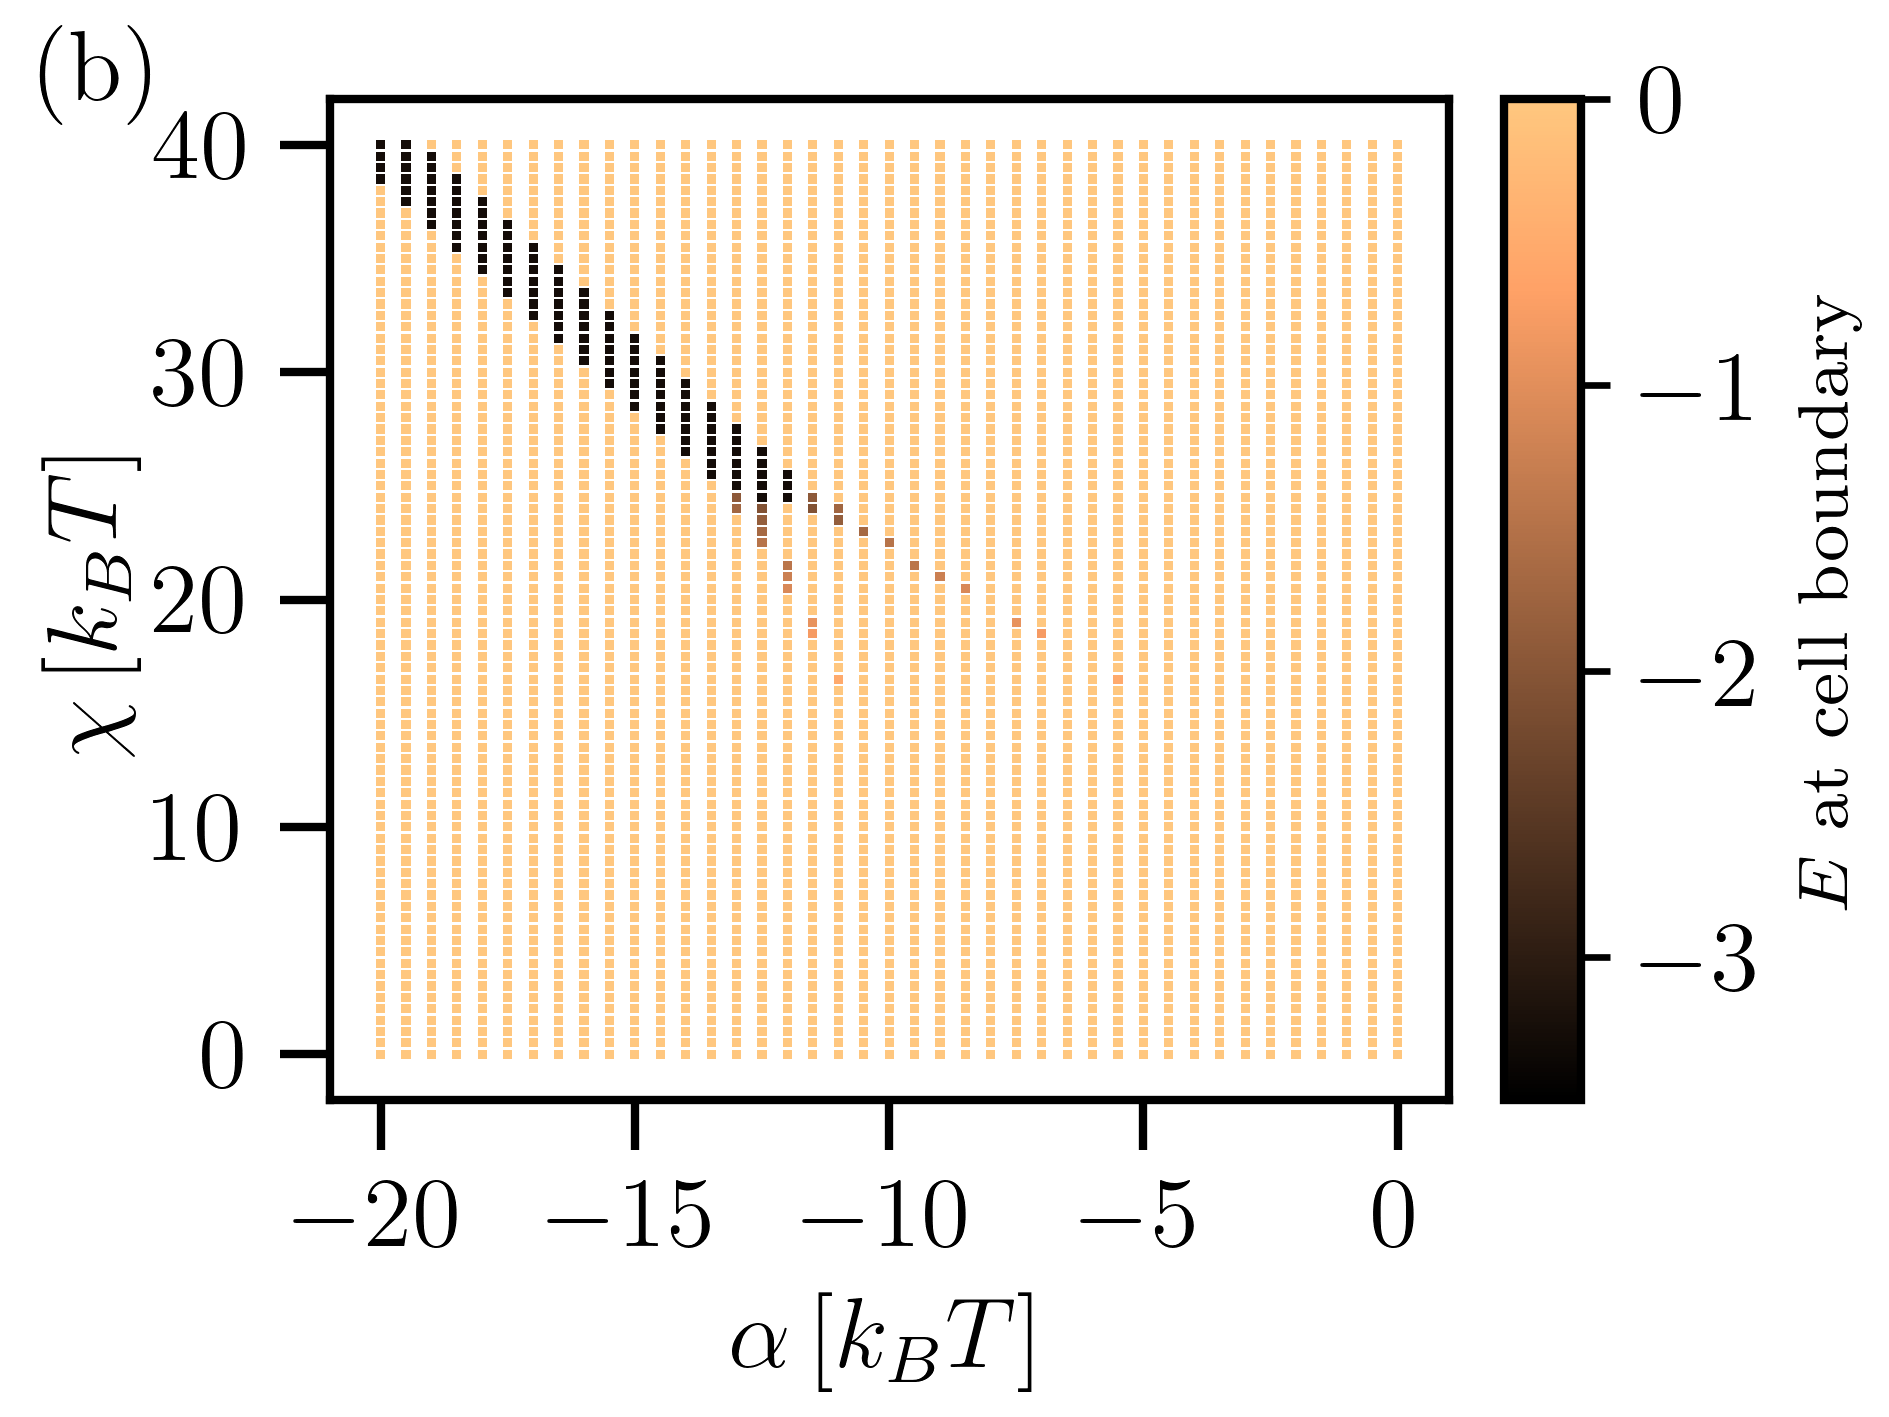
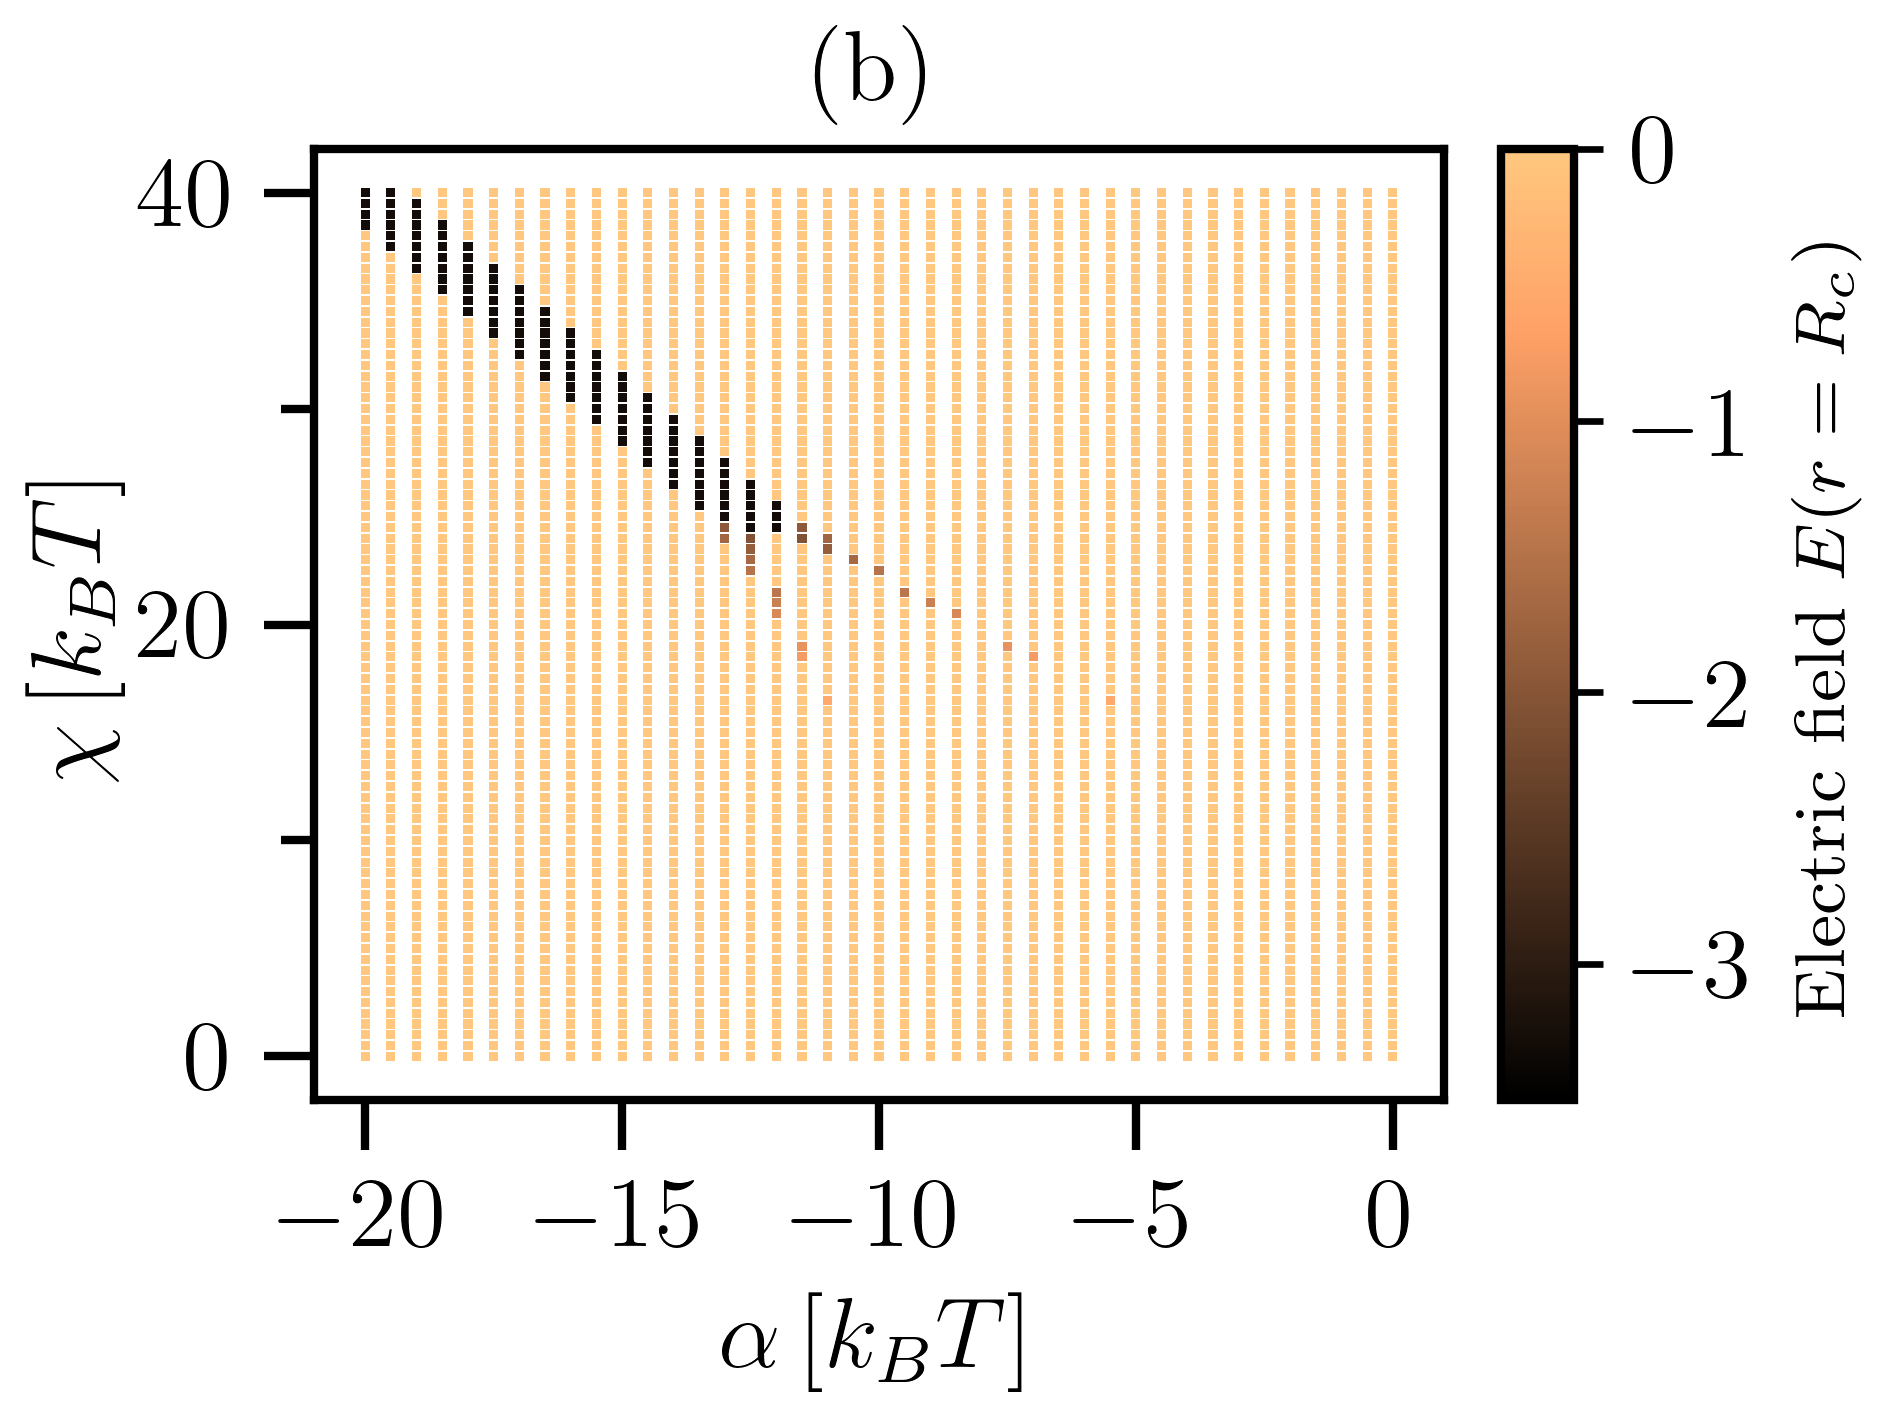
Changed file name and label

diff --git a/README.md b/README.md
@@ -8,7 +8,7 @@ For further details of the theory, please check our published paper: [Phys. Rev.
 
 **What does the code do:**
 
-By minimizing the relevant free energy functional, this code determines the surface charge densities and the associated electrostatic interaction of two such neighboring spheres for given values of $\alpha$, $\chi$, and the cell radius $R_c$. It uses a combination of **finite element** and **gradient descent** methods and is written in **C++**. The code also uses **OpenMP** to perform part of the computation in parallel.
+By minimizing the relevant free energy functional, this code determines the surface charge densities and the associated electrostatic interaction of two such neighboring spheres for given values of $\alpha$, $\chi$, and the cell radius $r=R_c$. It uses a combination of **finite element** and **gradient descent** methods and is written in **C++**. The code also uses **OpenMP** to perform part of the computation in parallel.
 
 **Sample parameters and output:**
 
